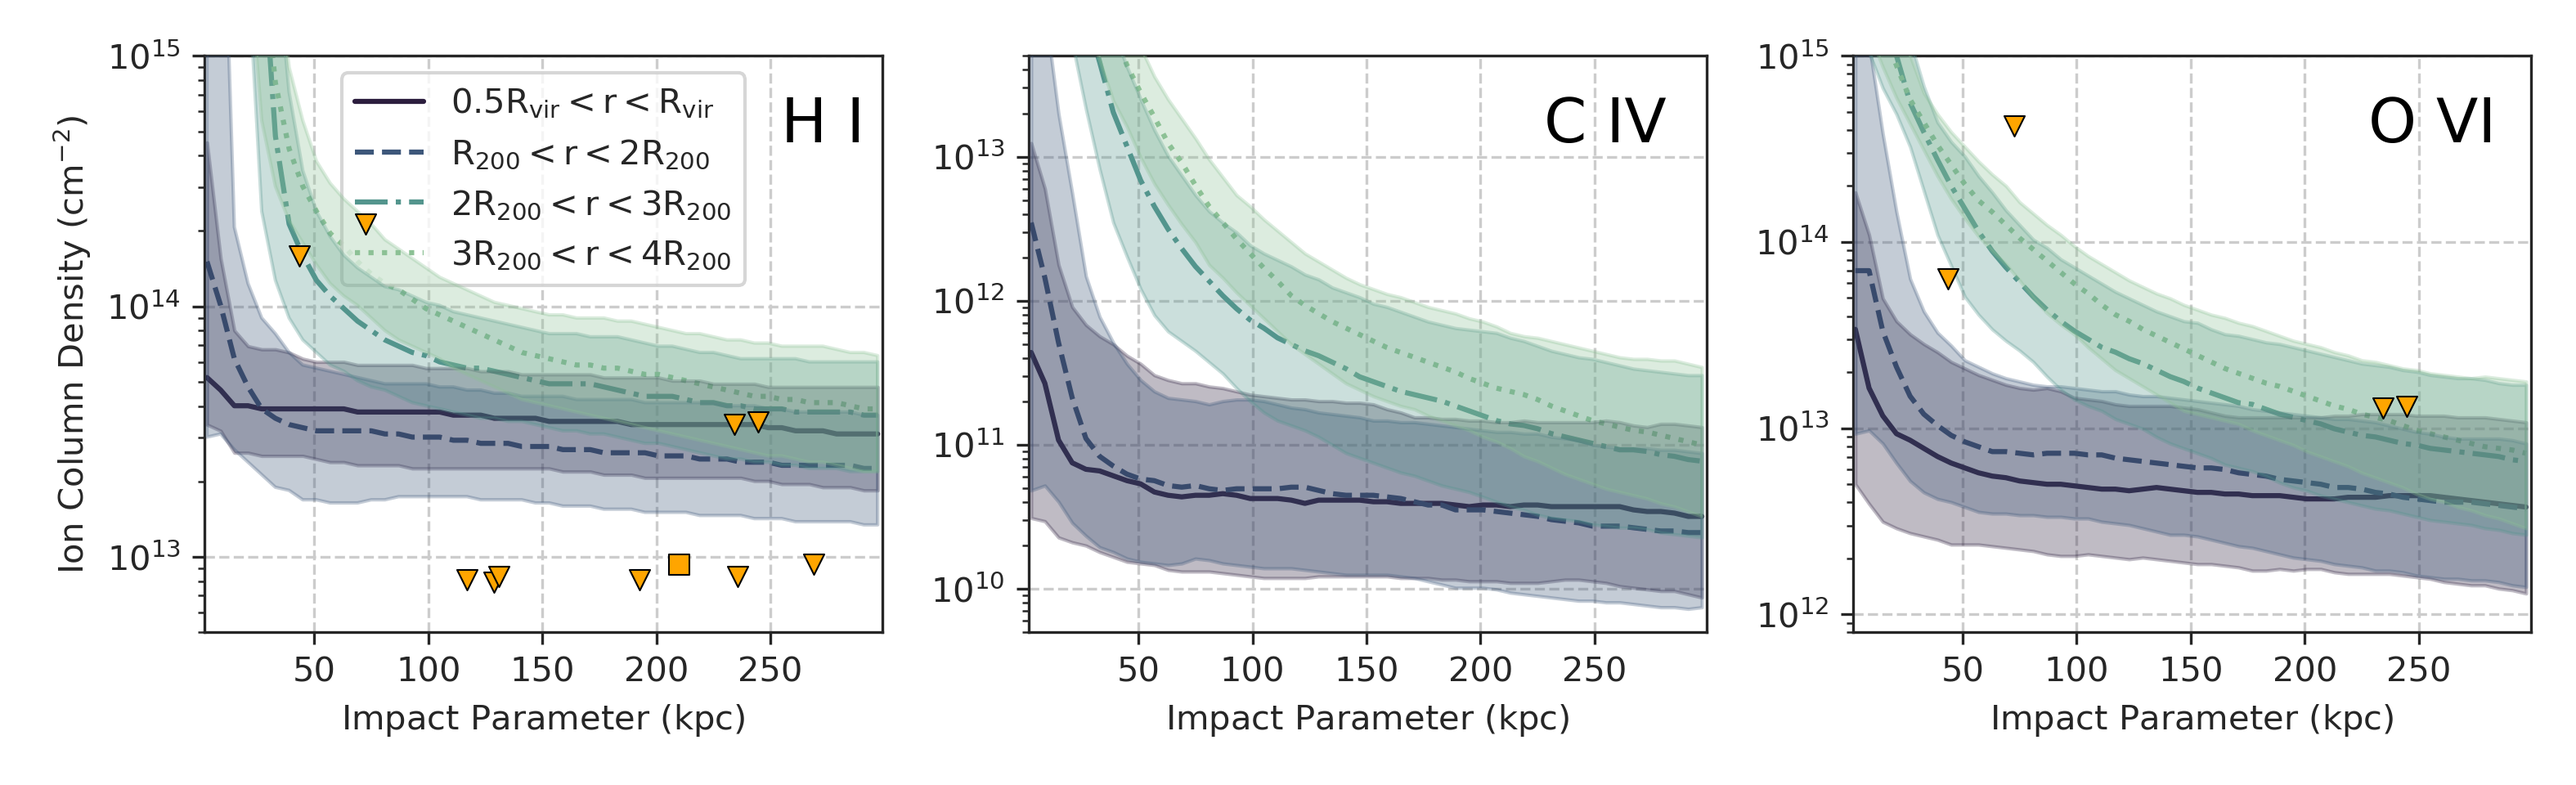
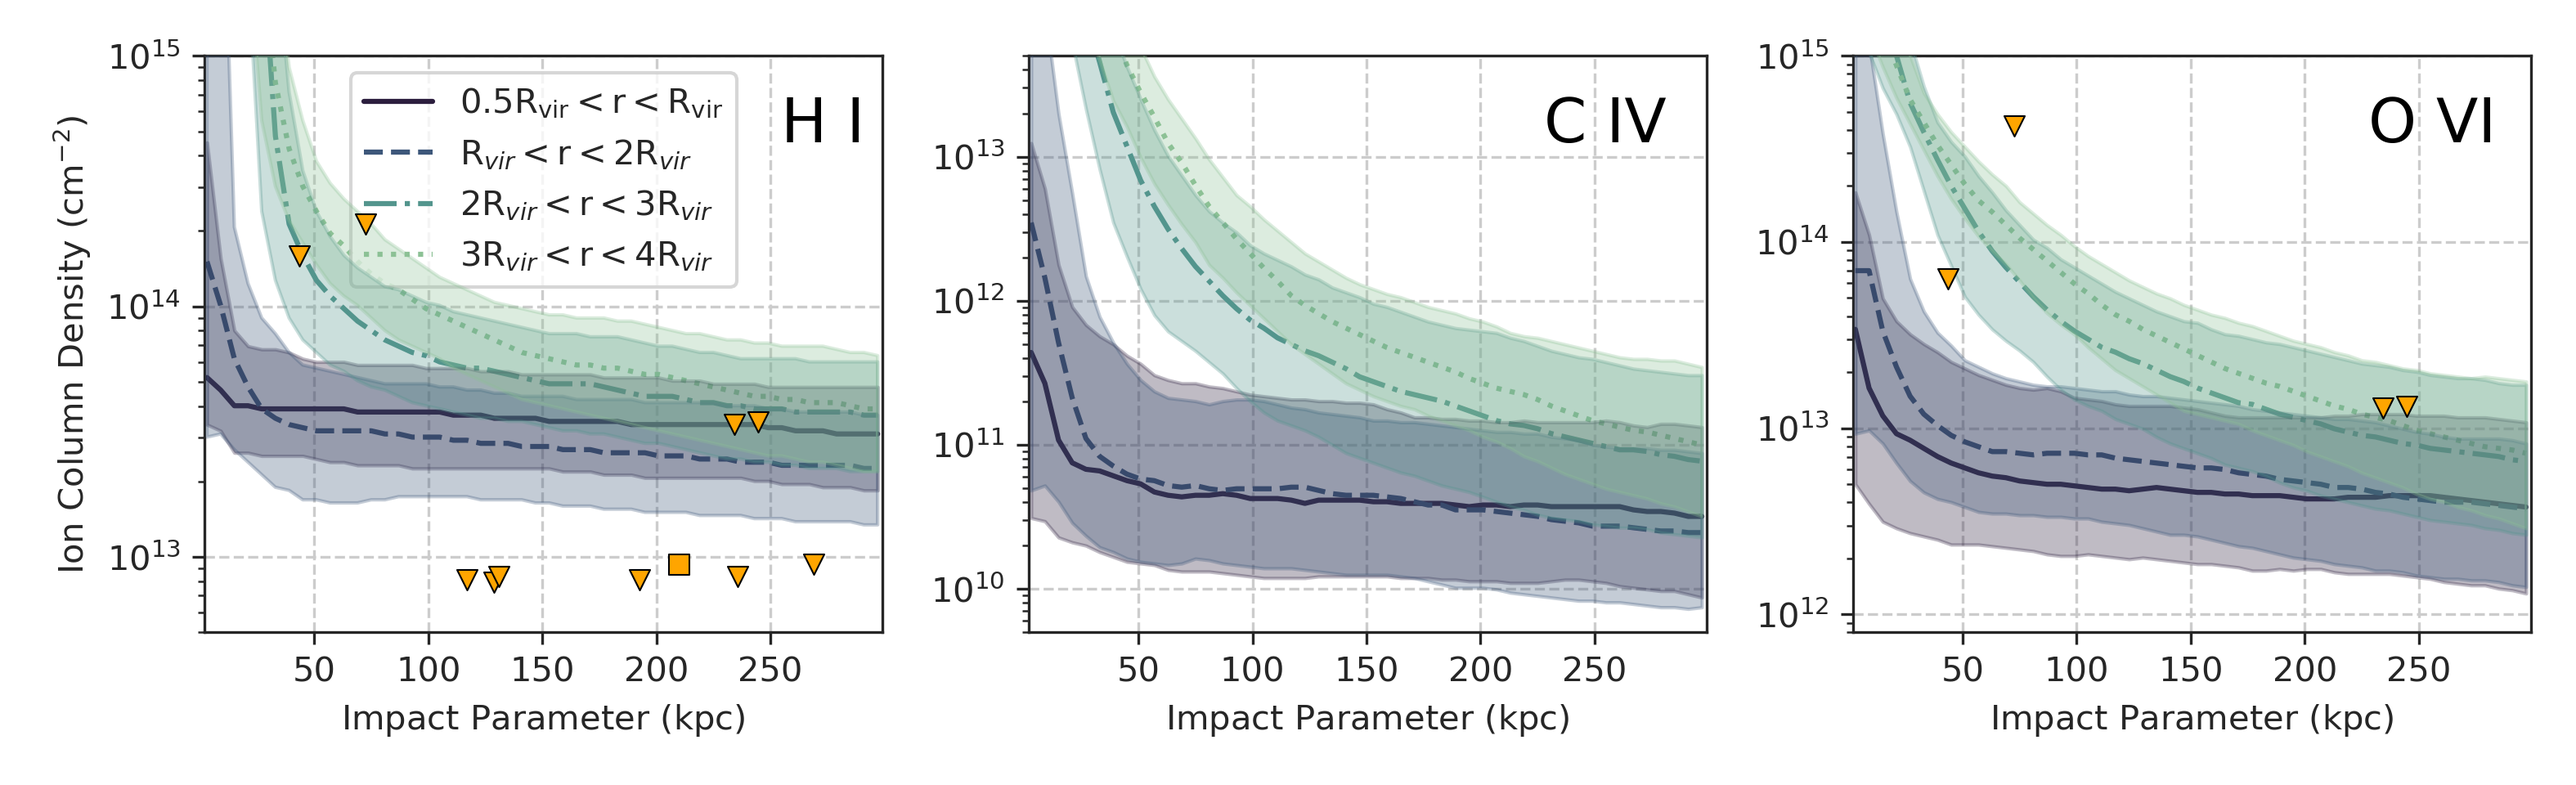
more changes

diff --git a/generate_halo_combined_column_data.py b/generate_halo_combined_column_data.py
@@ -23,7 +23,7 @@ def combine_halo_column_densities(sim, output, ion_list, rmax = 300, mask = None
     cluster_rvir = rom.get_romulusC_r200(output)
 
     print(cluster_rvir)
-    halo_mask = (contamination < 0.05) & (mstar_list >= 1e9) & (mstar_list < 1e12) 
+    halo_mask = (contamination < 0.05) & (mstar_list >= 1e9) & (mstar_list < 1e12)
     if mask == 'high_mass':
         halo_mask = (mstar_list >= 1e10) & (mstar_list <= 1e12)
 #    if sim == 'romulusC':
@@ -48,6 +48,9 @@ def combine_halo_column_densities(sim, output, ion_list, rmax = 300, mask = None
         r2_r = np.array([])
         r3_r = np.array([])
         r4_r = np.array([])
+        r5_r = np.array([])
+        r6_r = np.array([])
+        r7_r = np.array([])
 
         lowm_c = np.array([])
         midm_c = np.array([])
@@ -62,6 +65,9 @@ def combine_halo_column_densities(sim, output, ion_list, rmax = 300, mask = None
         r2_c = np.array([])
         r3_c = np.array([])
         r4_c = np.array([])
+        r5_c = np.array([])
+        r6_c = np.array([])
+        r7_c = np.array([])
         
         num_low = 0
         num_med = 0
@@ -76,12 +82,15 @@ def combine_halo_column_densities(sim, output, ion_list, rmax = 300, mask = None
         num_r2 = 0 
         num_r3 = 0
         num_r4 = 0
+        num_r5 = 0
+        num_r6 = 0
+        num_r7 = 0
 
         for j, halo in enumerate(halo_list):
             print(ion, halo)
             sys.stdout.flush()
 
-            fn = '/nobackupp2/ibutsky/data/%s/column_%i_halo%i'%(sim, output, halo)
+            fn = '/nobackupp2/ibutsky/data/%s/column_%i_halo%i%s'%(sim, output, halo, suffix)
             mstar = mstar_list[j]
             dtc = dist_list[j]  # distance to cluster center
             
@@ -123,31 +132,42 @@ def combine_halo_column_densities(sim, output, ion_list, rmax = 300, mask = None
                     d4_c = np.concatenate((d4_c, cdens_arr))
                     num_d4 += 1
 
-                if dtc <  cluster_rvir:
+                if dtc <  0.5*cluster_rvir:
                     r1_r = np.concatenate((r1_r, r_arr))
                     r1_c = np.concatenate((r1_c, cdens_arr))
                     num_r1 += 1
 
-                elif dtc >= cluster_rvir and dtc < 2* cluster_rvir:
+                elif dtc >= 0.5* cluster_rvir and dtc < cluster_rvir:
                     r2_r = np.concatenate((r2_r, r_arr))
                     r2_c = np.concatenate((r2_c, cdens_arr))
                     num_r2 += 1
 
-                elif dtc >= 2*cluster_rvir and dtc < 3 * cluster_rvir:
+                elif dtc >= cluster_rvir and dtc < 2 * cluster_rvir:
                     r3_r = np.concatenate((r3_r, r_arr))
                     r3_c = np.concatenate((r3_c, cdens_arr))
                     num_r3 += 1
 
-                elif dtc >= 3* cluster_rvir and dtc < 4* cluster_rvir:
+                elif dtc >= 2* cluster_rvir and dtc < 3* cluster_rvir:
                     r4_r = np.concatenate((r4_r, r_arr))
                     r4_c = np.concatenate((r4_c, cdens_arr))
                     num_r4 += 1
-            
 
+                elif dtc >= 3* cluster_rvir and dtc < 4* cluster_rvir:
+                    r5_r = np.concatenate((r5_r, r_arr))
+                    r5_c = np.concatenate((r5_c, cdens_arr))
+                    num_r5 += 1
+
+                
+                if dtc < cluster_rvir:
+                    r6_r = np.concatenate((r6_r, r_arr))
+                    r6_c = np.concatenate((r6_c, cdens_arr))
+                    num_r6 += 1
+
+                
 
         print('analyzed %i low-mass, %i med-mass, and %i high-mass galaxies'%(num_low, num_med, num_high))
         print('Galaxies in [d1, d2, d3, d4] = [%i, %i, %i, %i]'%(num_d1, num_d2, num_d3, num_d4))
-        print('Galaxies in [r1, r2, r3, r4] = [%i, %i, %i, %i]'%(num_r1, num_r2, num_r3, num_r4))
+        print('Galaxies in [r1, r2, r3, r4, r5, r6] = [%i, %i, %i, %i, %i]'%(num_r1, num_r2, num_r3, num_r4, num_r5))
 
         name_list = ['low_mass', 'med_mass', 'high_mass']
 
@@ -155,13 +175,15 @@ def combine_halo_column_densities(sim, output, ion_list, rmax = 300, mask = None
         col_list = [lowm_c, midm_c, highm_c]
         
         if sim == 'romulusC':
-            name_list = np.append(name_list, ['dist_1', 'dist_2', 'dist_3', 'dist_4', 'r1', 'r2', 'r3', 'r4'])
-            radius_list = np.append(radius_list, [d1_r, d2_r, d3_r, d4_r, r1_r, r2_r, r3_r, r4_r])
-            col_list = np.append(col_list, [d1_c, d2_c, d3_c, d4_c, r1_c, r2_c, r3_c, r4_c])
+            name_list = np.append(name_list, ['dist_1', 'dist_2', 'dist_3', 'dist_4', 'r1', 'r2', 'r3', 'r4', 'r5', 'r6'])
+            radius_list = np.append(radius_list, [d1_r, d2_r, d3_r, d4_r, r1_r, r2_r, r3_r, r4_r, r5_r, r6_r])
+            col_list = np.append(col_list, [d1_c, d2_c, d3_c, d4_c, r1_c, r2_c, r3_c, r4_c, r5_c, r6_c])
 
         ion_out = ion.replace(" ", "")
         for dcol, drad, dname in zip(col_list, radius_list, name_list):
             dset = "%s_%s" % (ion_out, dname)
+            print(dset)
+            sys.stdout.flush()
             # if dset not in out_file.keys():
             out_file.create_dataset("%s_col"%(dset), data=dcol)
             out_file.create_dataset("%s_rbin"%(dset), data=drad)
@@ -170,7 +192,7 @@ def combine_halo_column_densities(sim, output, ion_list, rmax = 300, mask = None
 
 ion_list = ['H I', 'O VI', 'Si II', 'Si III', 'Si IV', 'C II', 'C III', 'C IV']
 
-ion_list = ['H I', 'O VI', 'C IV']
+ion_list = ['H I', 'C IV', 'O VI']
 sim = sys.argv[1]
 output = int(sys.argv[2])
 

diff --git a/plot_multipanel_halo_ion.py b/plot_multipanel_halo_ion.py
@@ -69,24 +69,27 @@ def multipanel_ion_plot(sim, output, ion_list, plot_type, bin_type, do_colormesh
         linestyles = ['solid', 'dashed', 'dashdot', 'dotted']
 
     elif bin_type == 'r200':
-        plot_bins = ['r1', 'r2', 'r3']
-#        plot_bins = ['r4', 'r4', 'r4', 'r4']
+        plot_bins = ['r2', 'r3', 'r4', 'r5']
+#        plot_bins = ['r3', 'r3', 'r3', 'r3']
 #        plot_labels = ['$\mathrm{r} < 0.5 \mathrm{R}_{\mathrm{vir}}$', \
 #                       '$ 0.5 \mathrm{R}_{\mathrm{vir}} < \mathrm{r} < \mathrm{R}_{\mathrm{vir}}$', \
 #                       '$ \mathrm{R}_{\mathrm{vir}} < \mathrm{r} < 2 \mathrm{R}_{\mathrm{vir}}$' ,\
 #                       '$ 2 \mathrm{R}_{\mathrm{vir}} < \mathrm{r} < 3 \mathrm{R}_{\mathrm{vir}}$']
-        plot_labels = ['$\mathrm{r} < 0.5 \mathrm{R}_{200}$', '$ 0.5 \mathrm{R}_{200} < \mathrm{r} < \mathrm{R}_{200}$',\
-                       '$ \mathrm{R}_{200} < \mathrm{r} < 2 \mathrm{R}_{200}$', \
-                       '$ 2 \mathrm{R}_{200} < \mathrm{r} < 3 \mathrm{R}_{200}$']               
+#        plot_labels = ['$\mathrm{r} < 0.5 \mathrm{R}_{200}$', '$ 0.5 \mathrm{R}_{200} < \mathrm{r} < \mathrm{R}_{200}$',\
+ #                      '$ \mathrm{R}_{200} < \mathrm{r} < 2 \mathrm{R}_{200}$',\
+ #                      '$ 2 \mathrm{R}_{200} < \mathrm{r} < 3 \mathrm{R}_{200}$', \
+ #                      '$ 3 \mathrm{R}_{200} < \mathrm{r} < 4 \mathrm{R}_{200}$']               
 
-        plot_labels = ['$\mathrm{r} < \mathrm{R}_{200}$', '$\mathrm{R}_{200} < \mathrm{r} < 2\mathrm{R}_{200}$',\
-                       '$ 2\mathrm{R}_{200} < \mathrm{r} < 3 \mathrm{R}_{200}$']
+        plot_labels = ['$ 0.5 \mathrm{R}_{\mathrm{vir}} < \mathrm{r} < \mathrm{R}_{\mathrm{vir}}$',\
+                       '$\mathrm{R}_{vir} < \mathrm{r} < 2\mathrm{R}_{vir}$',\
+                       '$ 2\mathrm{R}_{vir} < \mathrm{r} < 3 \mathrm{R}_{vir}$', '$ 3 \mathrm{R}_{vir} < \mathrm{r} < 4 \mathrm{R}_{vir}$']
 
 
         linestyles = ['solid', 'dashed', 'dashdot', 'dotted']
-        linestyles = ['solid', 'dashed', 'dotted']
-        palette = sns.cubehelix_palette(4, start=.5, rot=-.75, reverse = True)
-        colors = [palette[0], palette[1], palette[2]]
+       # linestyles = ['solid', 'dashed', 'dotted']
+       # linestyles = ['solid', 'dashed', 'dashdot', 'dotted', 'dotted']
+#        palette = sns.cubehelix_palette(len(linestyles)+2, start=.5, rot=-.75, reverse = True)
+#        colors = [palette[0], palette[1], palette[2], palette[3], palette[4]]
 
 
     fig, figax = plt.subplots(nrows = nrows, ncols = ncols, figsize=(3.5*ncols, 3.2*nrows), sharex = True, sharey = sharey)
@@ -195,7 +198,7 @@ multipanel_ion_plot(sim, output, ion_list, plot_type, 'r200', combine = False)
 
 plot_type = 'column'
 multipanel_ion_plot(sim, output, ion_list, plot_type, 'dist', combine = False)
-multipanel_ion_plot(sim, output, ion_list, plot_type, 'r200', combine = False)# do_colormesh= True)
+multipanel_ion_plot(sim, output, ion_list, plot_type, 'r200', combine = False)#, do_colormesh= True)
 
 
 

diff --git a/generate_halo_column_histograms.py b/generate_halo_column_histograms.py
@@ -26,13 +26,14 @@ def generate_ion_histograms(sim, output, ion_list, nbins = 800, rmax = 300, suff
 
     bin_name_list = ['low_mass', 'med_mass', 'high_mass']
     if sim == 'romulusC':
-        bin_name_list = np.append(bin_name_list, ['dist_1', 'dist_2', 'dist_3', 'dist_4', 'r1', 'r2', 'r3', 'r4'])
+        bin_name_list = np.append(bin_name_list, ['dist_1', 'dist_2', 'dist_3', 'dist_4', 'r1', 'r2', 'r3', 'r4', 'r5', 'r6'])
     plot_names = ['xbins', 'ybins', 'counts']
 
     for i, ion in enumerate(ion_list):
         ion_out = ion.replace(" ", "")
         for bin_name in bin_name_list:
             print(ion, bin_name)
+            sys.stdout.flush()
             r_arr = frb[('%s_%s_rbin'%(ion_out, bin_name))][:]
             col_arr = frb[('%s_%s_col'%(ion_out, bin_name))][:]
             

diff --git a/ion_plot_definitions.py b/ion_plot_definitions.py
@@ -46,9 +46,9 @@ def column_romulus25_ylims(ion):
 def column_plot_ylims(ion):
         ion = ion.replace(" ", "")
         if ion == 'HI':
-                ylims = (3e12, 1e15)
+                ylims = (5e12, 1e15)
         elif ion == 'OVI':
-                ylims = (3e11, 7e14)
+                ylims = (8e11, 1e15)
         elif ion == 'MgII':
                 ylims = (1e2, 1e15)
         elif ion == 'CII':
@@ -56,7 +56,7 @@ def column_plot_ylims(ion):
         elif ion == 'CIII':
                 ylims = (9e7, 1e12)
         elif ion == 'CIV':
-                ylims = (2e9, 1e13)
+                ylims = (5e9, 5e13)
         elif ion == 'SiII':
                 ylims = (1e2, 9e6)
         elif ion == 'SiIII':

diff --git a/generate_halo_column_median_profiles.py b/generate_halo_column_median_profiles.py
@@ -20,7 +20,7 @@ def generate_ion_profiles(sim, output, ion_list, nbins = 100, rmax = 300, mask =
     print(list(frb.keys()))
     bin_name_list = ['low_mass', 'med_mass', 'high_mass']
     if sim == 'romulusC':
-        bin_name_list = np.append(bin_name_list, ['dist_1', 'dist_2', 'dist_3', 'dist_4', 'r1', 'r2','r3', 'r4'])
+        bin_name_list = np.append(bin_name_list, ['dist_1', 'dist_2', 'dist_3', 'dist_4', 'r1', 'r2','r3', 'r4', 'r5', 'r6'])
     
     for i, ion in enumerate(ion_list):
         ion_out = ion.replace(" ", "")
